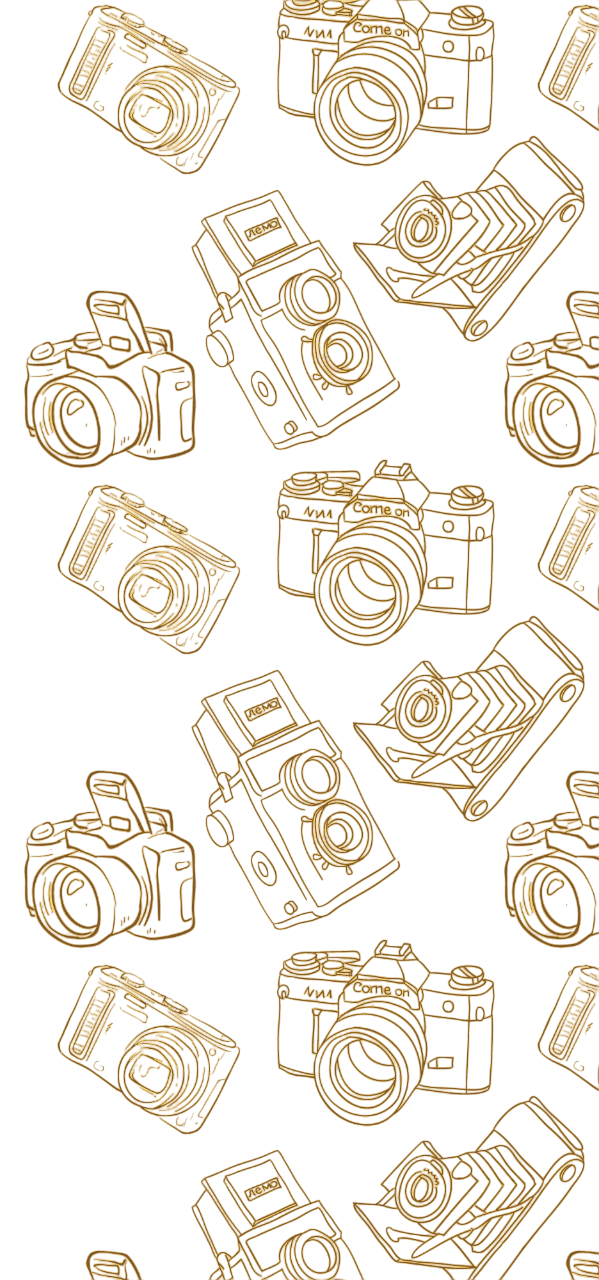
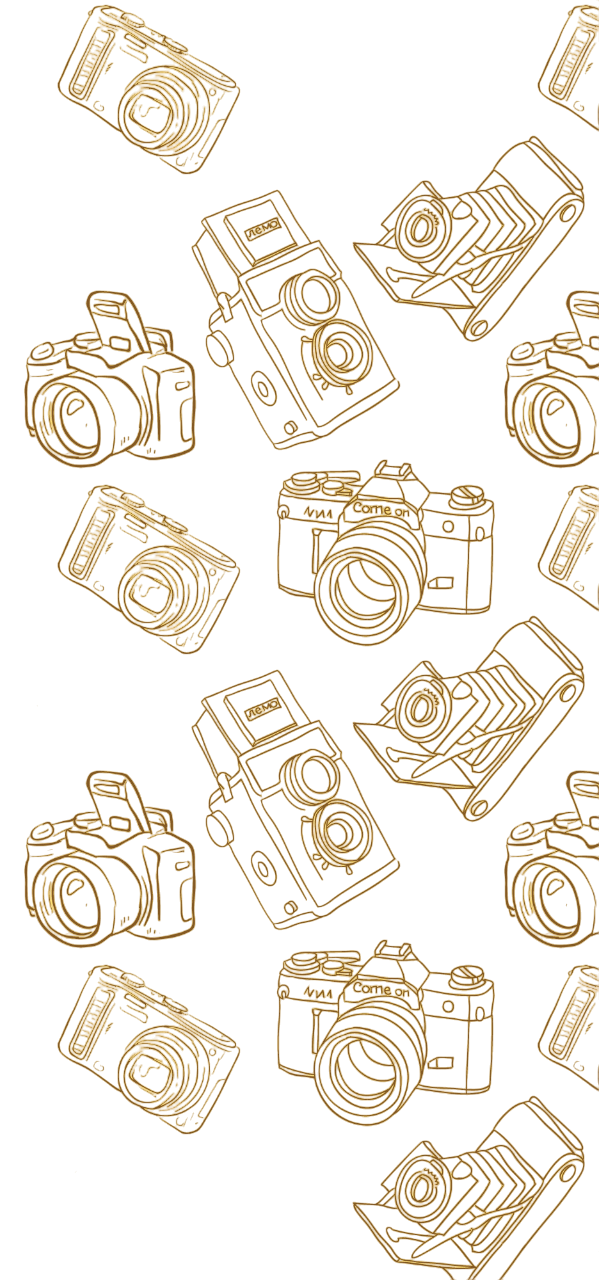
ajustes

diff --git a/src/pages/FotosPage.vue b/src/pages/FotosPage.vue
@@ -145,6 +145,6 @@ onMounted(() => {
   background-image: url('../assets/fundofotos.png');
   background-repeat: no-repeat;
   background-size: 65% auto;
-  background-position: right top;
+  background-position: right center;
 }
 </style>
